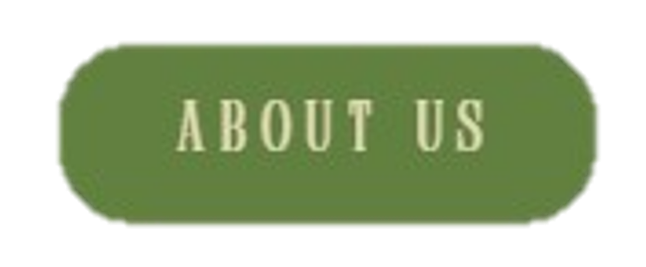
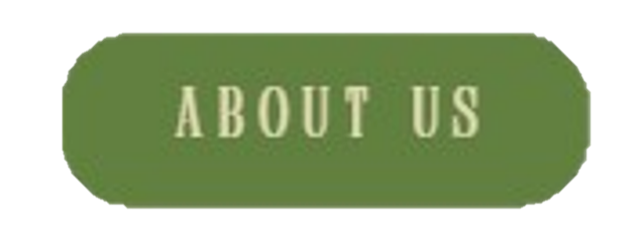
addes index.css

Changed region(s): [[0.0625, 0.1111, 0.9375, 0.8611], [0.25, 0.3333, 0.5938, 0.5833], [0.625, 0.3333, 0.75, 0.5833]]

diff --git a/css/index.css b/css/index.css
@@ -1,0 +1,50 @@
+body {
+  background-color: #40513B;
+  margin: 0; /* Removes default browser spacing around the edges */
+}
+
+#mainPic {
+  position: fixed;
+  top: 0;
+  left: 0;
+  width: 40vw;      /* 1/3 of the screen width */
+  height: 100vh;       /* Full screen height */
+  object-fit: cover;   /* Crops cleanly without stretching */
+}
+
+#mainLabel {
+  position: fixed;
+  top: 8vh;                    /* 1/3 down from the top of the screen */
+  left: 41vw;                   /* 1/3 across from the left of the screen */
+  width: 58%;                    /* Adjust size as needed */
+  height: auto;                    /* Keeps original image proportions */
+}
+
+#buttonsDiv {
+  position: fixed;
+  top: 43vh;
+  left: 47vw;
+  width: 50vw;             /* 1/2 of the viewport width */
+  height: 70vh;            /* 1/2 of the viewport height (0.5 * 0.5 = 1/4 of screen area) */
+  margin-left: auto;       /* Pushes the div all the way to the right */
+  margin-right: 0;
+  display: flex;
+  flex-wrap: wrap;   
+  align-content: center;   /* Stops rows from stretching to fill the 70vh height */
+  gap: 0.1rem;               /* Now controls the exact vertical & horizontal gap */
+  justify-content: center;
+}
+
+#buttonsDiv .bigButton img {
+  width: 40rem;     /* Adjust to your desired size (or use px / vw) */
+  height: auto;     /* Keeps the button's original aspect ratio so it doesn't stretch */
+  display: block;   /* Removes the tiny extra space browsers add under images */
+  flex-basis: 100%; 
+  justify-content: center;
+}
+
+#buttonsDiv .smallButton img {
+  width: 20rem;     /* Adjust to your desired size (or use px / vw) */
+  height: auto;     /* Keeps the button's original aspect ratio so it doesn't stretch */
+  display: block;   /* Removes the tiny extra space browsers add under images */
+}

diff --git a/index.html b/index.html
@@ -3,13 +3,41 @@
   <head>
     <meta charset="UTF-8" />
     <title>Espesyal Pickleball Club Home</title>
+    <link rel="stylesheet" href="./css/index.css" />
   </head>
   <body>
-    <h3>Welcome to Espesyal Pickleball Club!</h3>
-    <ul>
+    <img
+      id="mainPic"
+      src="./images/index_mainPic.jpg"
+      alt="A picture of two pickleball paddles with pickleballs inside a net bag."
+    />
+    <img id="mainLabel" src="./images/index_mainLabel.png" />
+
+    <div id="buttonsDiv">
+      <a id="reserveCourtsBtn" class="bigButton" href="./html/reserveCourts.html">
+        <img
+          src="./images/index_reserveCourts_btn.png"
+          alt="Click to reserve courts."
+        />
+      </a>
+      <a id="viewCourtsBtn" class="smallButton" href="./html/viewCourts.html">
+        <img
+          src="./images//index_viewCourts-btn.png"
+          alt="Click to view courts."
+        />
+      </a>
+      <a id="aboutUsBtn" class="smallButton" href="./html/reserveCourts.html">
+        <img
+          src="./images/index_aboutUs-btn.png"
+          alt="Click to view about us."
+        />
+      </a>
+    </div>
+
+    <!-- <ul>
       <li><a href="./html/viewCourts.html">View Courts</a></li>
       <li><a href="./html/reserveCourts.html">Reserve Court</a></li>
       <li><a href="./html/aboutUs.html">About Us</a></li>
-    </ul>
+    </ul> -->
   </body>
 </html>
